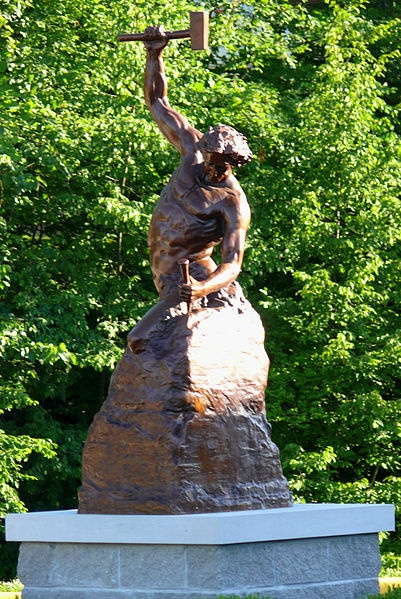
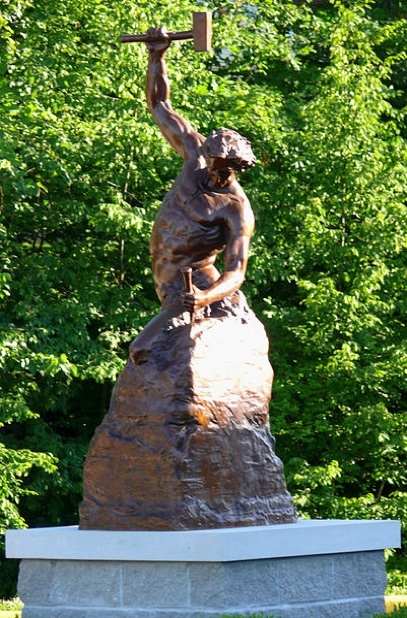
image refactors

diff --git a/RoseArt/src/app/-main-content/sculptures/sculpture-card/sculpture-card.component.scss b/RoseArt/src/app/-main-content/sculptures/sculpture-card/sculpture-card.component.scss
@@ -1,8 +1,13 @@
 .sculpt {
     z-index: 3;
     box-shadow: 2px 1px 6px #7F7F7F;
-    max-width: 40%;
+    max-width: 35%;
     max-height: auto;
+    align-content: center;
+    img {
+        max-width: 100%;
+        height: auto;
+    }
 }   
 
 #userinfo {
